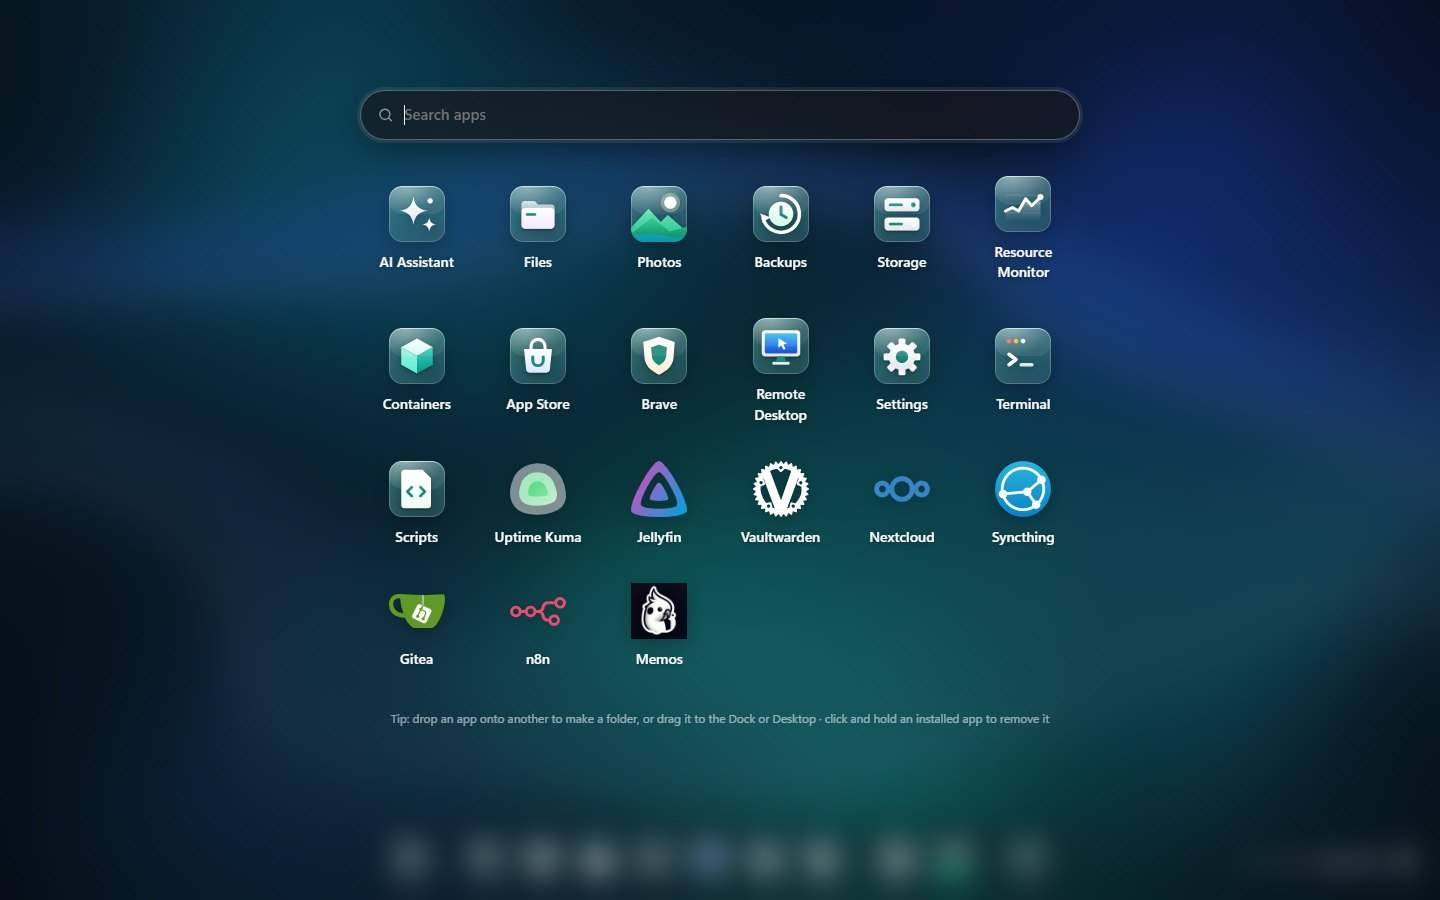
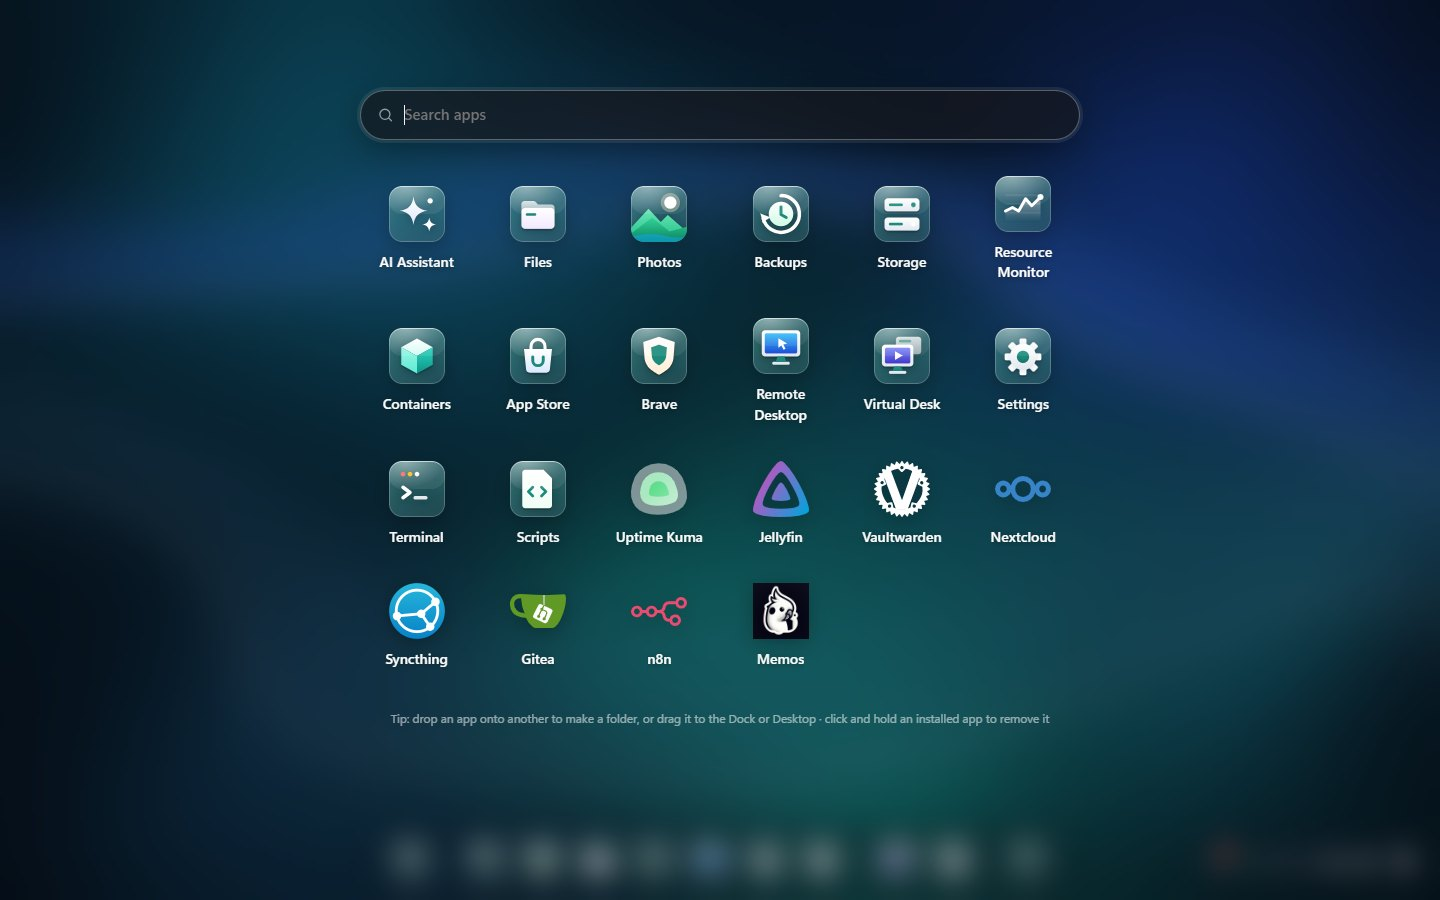
Site and README: Virtual Desk, notifications and new screenshots
Adds Virtual Desk and Notifications to the feature lists, Virtual Desk and
New VM screenshots, refreshed screenshots for the rest (device name hidden),
and notes that updates roll back automatically.

diff --git a/docs/index.html b/docs/index.html
@@ -214,6 +214,8 @@ footer a:hover{color:#fff}
     <div class="card"><div class="ic"><svg viewBox="0 0 24 24" fill="none" stroke="currentColor" stroke-width="1.8"><path d="M12 3a9 9 0 1 1-8.5 6"/><path d="M3 4v5h5M12 8v4l3 2"/></svg></div><h3>Backups & Rewind</h3><p>Encrypted, scheduled backups to a drive, SFTP or S3/B2, and Rewind to bring back any file from any day.</p></div>
     <div class="card"><div class="ic"><svg viewBox="0 0 24 24" fill="none" stroke="currentColor" stroke-width="1.8"><rect x="4" y="4" width="16" height="7" rx="2"/><rect x="4" y="13" width="16" height="7" rx="2"/></svg></div><h3>Storage & ZFS</h3><p>Disk health (SMART), ZFS pools (mirror, RAIDZ1/2/3), datasets, snapshots and scrubs. Erasing always needs a typed confirmation.</p></div>
     <div class="card"><div class="ic"><svg viewBox="0 0 24 24" fill="none" stroke="currentColor" stroke-width="1.8"><path d="M4 7h16v10H4zM8 21h8M12 17v4"/><path d="M8 11h8"/></svg></div><h3>Network drives & sharing</h3><p>Connect SMB/NFS shares, and share any folder over SMB and WebDAV, right inside Files. Plus Cloud Imports from Google Drive, Dropbox and OneDrive.</p></div>
+    <div class="card"><div class="ic"><svg viewBox="0 0 24 24" fill="none" stroke="currentColor" stroke-width="1.8"><rect x="6" y="3" width="15" height="11" rx="2"/><rect x="3" y="7" width="15" height="11" rx="2"/><path d="M8 21h6M11 18v3"/></svg></div><h3>Virtual Desk</h3><p>Run Windows, Linux and Android virtual machines: a four-step New VM wizard, live usage, snapshots, and each machine's screen in its own window.</p></div>
+    <div class="card"><div class="ic"><svg viewBox="0 0 24 24" fill="none" stroke="currentColor" stroke-width="1.8"><path d="M6 16V11a6 6 0 0 1 12 0v5l2 2H4zM10 21h4"/></svg></div><h3>Notifications</h3><p>Updates, app updates, app errors, storage and backups. macOS-style banners with the menu-bar desktop, Windows-style toasts with the taskbar.</p></div>
     <div class="card"><div class="ic"><svg viewBox="0 0 24 24" fill="none" stroke="currentColor" stroke-width="1.8"><path d="M12 3l8 4.5v9L12 21l-8-4.5v-9zM12 12l8-4.5M12 12v9M12 12 4 7.5"/></svg></div><h3>Docker, your way</h3><p>Edit any container (ports, folders, macvlan/ipvlan networks, environment, limits), create networks and run Compose stacks.</p></div>
     <div class="card"><div class="ic"><svg viewBox="0 0 24 24" fill="none" stroke="currentColor" stroke-width="1.8"><path d="M4 5h16v14H4zM7 9l3 3-3 3M13 15h4"/></svg></div><h3>Root terminal</h3><p>A real shell on the server, or inside any container, right in the browser.</p></div>
     <div class="card"><div class="ic"><svg viewBox="0 0 24 24" fill="none" stroke="currentColor" stroke-width="1.8"><path d="M16 14a4 4 0 1 0-8 0M12 10a3 3 0 1 0 0-6 3 3 0 0 0 0 6zM4 20c0-3 3.6-5 8-5s8 2 8 5"/></svg></div><h3>Users & network</h3><p>Sign in with the machine's Linux accounts, manage users, join Wi-Fi, set static IPs with automatic rollback, check for updates.</p></div>
@@ -235,6 +237,8 @@ footer a:hover{color:#fff}
     <figure class="shot"><a href="screenshots/app-store.jpg"><img src="screenshots/app-store.jpg" alt="App Store" loading="lazy" width="1440" height="900"></a><figcaption><b>App Store</b>Featured apps, categories, installs and updates.</figcaption></figure>
     <figure class="shot"><a href="screenshots/settings.jpg"><img src="screenshots/settings.jpg" alt="Settings" loading="lazy" width="1440" height="900"></a><figcaption><b>Settings</b>Network, General, Personalization, Security and more.</figcaption></figure>
     <figure class="shot"><a href="screenshots/storage.jpg"><img src="screenshots/storage.jpg" alt="Storage with ZFS pools" loading="lazy" width="1440" height="900"></a><figcaption><b>Storage</b>Disk health and ZFS pools (sample data).</figcaption></figure>
+    <figure class="shot"><a href="screenshots/virtual-desk.jpg"><img src="screenshots/virtual-desk.jpg" alt="Virtual Desk" loading="lazy" width="1440" height="900"></a><figcaption><b>Virtual Desk</b>Virtual machines with live usage (sample data).</figcaption></figure>
+    <figure class="shot"><a href="screenshots/virtual-desk-new.jpg"><img src="screenshots/virtual-desk-new.jpg" alt="New virtual machine wizard" loading="lazy" width="1440" height="900"></a><figcaption><b>New VM</b>Pick the system, ISO, resources and network.</figcaption></figure>
     <figure class="shot"><a href="screenshots/login.jpg"><img src="screenshots/login.jpg" alt="Lock screen" loading="lazy" width="1440" height="900"></a><figcaption><b>Lock screen</b>Your photo over the wallpaper.</figcaption></figure>
     <figure class="shot"><a href="screenshots/cyber-deck.jpg"><img src="screenshots/cyber-deck.jpg" alt="Cyber-Deck theme" loading="lazy" width="1440" height="900"></a><figcaption><b>Cyber-Deck</b>An optional sci-fi theme with holographic widgets.</figcaption></figure>
   </div>

diff --git a/README.md b/README.md
@@ -8,7 +8,7 @@
 **Freedom to do more.** NoCapOS turns any Linux server into a personal cloud with a full windowed
 desktop in your browser. It installs on top of your existing Linux (Debian, Ubuntu, Raspberry Pi OS,
 Fedora, Arch), manages the machine as root, and runs apps in Docker:
-files, photos, backups, RAID storage, network sharing and one-click apps, all in a frosted-glass desktop.
+files, photos, backups, RAID storage, virtual machines, network sharing and one-click apps, all in a frosted-glass desktop.
 
 🌐 **Website:** https://shatheitguy.github.io/nocapos/
 
@@ -55,10 +55,14 @@ Already downloaded a bundle? `tar -xzf nocapos-linux-arm64.tar.gz && sudo bash n
   use a single disk as storage. Erasing always needs a typed confirmation.
 - **Network drives & sharing** — connect SMB/NFS shares and share folders over SMB and WebDAV, inside Files.
 - **Cloud Imports** — bring files in from Google Drive, Dropbox, OneDrive and more (rclone).
+- **Virtual Desk** — run Windows, Linux and Android virtual machines (KVM): a four-step New VM wizard,
+  live usage, snapshots, and the machine's screen in its own window.
 - **Docker** — edit any container (ports, folders, macvlan/ipvlan networks with fixed IPs, environment,
   limits), create networks and run Compose stacks.
 - **Your server, managed** — sign in with the machine's Linux accounts, users and roles, Wi-Fi and network
   (DHCP/static with automatic rollback), software update check, restart and shut down.
+- **Notifications** — updates, app updates, app errors, storage and backups, as macOS-style banners with
+  the menu-bar desktop or Windows-style toasts with the taskbar.
 - **Terminal, Monitor, Remote Desktop, Brave, Scripts and an AI Assistant** (local Ollama or cloud).
 - **Security** — argon2id passwords, two-factor sign-in, rotating sessions, an audit log of every admin
   action and a strict Content-Security-Policy.
@@ -70,11 +74,13 @@ Already downloaded a bundle? `tar -xzf nocapos-linux-arm64.tar.gz && sudo bash n
 | ![Launchpad](docs/screenshots/launchpad.jpg) **Launchpad** — glass icons for NoCapOS apps, real icons for installed apps | ![Files](docs/screenshots/files.jpg) **Files** — favorites, recents, network devices and quick look |
 | ![Photos](docs/screenshots/photos.jpg) **Photos** — timeline, On this day, albums and favorites | ![App Store](docs/screenshots/app-store.jpg) **App Store** — featured apps, categories and updates |
 | ![Settings](docs/screenshots/settings.jpg) **Settings** — Network, General, Personalization, Security and more | ![Storage](docs/screenshots/storage.jpg) **Storage** — disk health and ZFS pools (sample data) |
+| ![Virtual Desk](docs/screenshots/virtual-desk.jpg) **Virtual Desk** — virtual machines with live usage (sample data) | ![New VM](docs/screenshots/virtual-desk-new.jpg) **New VM** — pick the system, ISO, resources and network |
 | ![Lock screen](docs/screenshots/login.jpg) **Lock screen** — your photo over the wallpaper | ![Cyber-Deck](docs/screenshots/cyber-deck.jpg) **Cyber-Deck** — an optional sci-fi theme |
 
 ## Updating
 
-Run the installer again — it upgrades in place and keeps your accounts, settings and files. Every push
+Run the installer again — it upgrades in place and keeps your accounts, settings and files. If the new
+version doesn't start, the installer puts the previous version and its database back automatically. Every push
 to `main` is built by GitHub Actions and published under [Releases](../../releases), so `releases/latest`
 always has the newest build.
 
@@ -84,13 +90,13 @@ Requirements: Go 1.25+, Node 20+.
 
 ```powershell
 .\build.ps1                                   # UI + backend\bin\alfad.exe for this machine
-.\package.ps1 -Version 0.3.0                  # Linux bundles in dist\ (amd64, arm64, armv7) + SHA256SUMS
+.\package.ps1 -Version 0.4.0                  # Linux bundles in dist\ (amd64, arm64, armv7) + SHA256SUMS
 ```
 
 ```bash
 cd frontend && npm install && npm run build   # builds the UI into backend/web/dist
 cd ../backend && CGO_ENABLED=0 go build -o bin/alfad ./cmd/alfad
-bash scripts/package.sh 0.3.0                 # (from the repo root) Linux bundles in dist/
+bash scripts/package.sh 0.4.0                 # (from the repo root) Linux bundles in dist/
 ```
 
 Run it locally with `backend/bin/alfad` and open `http://127.0.0.1:8080`; the first start prints the
